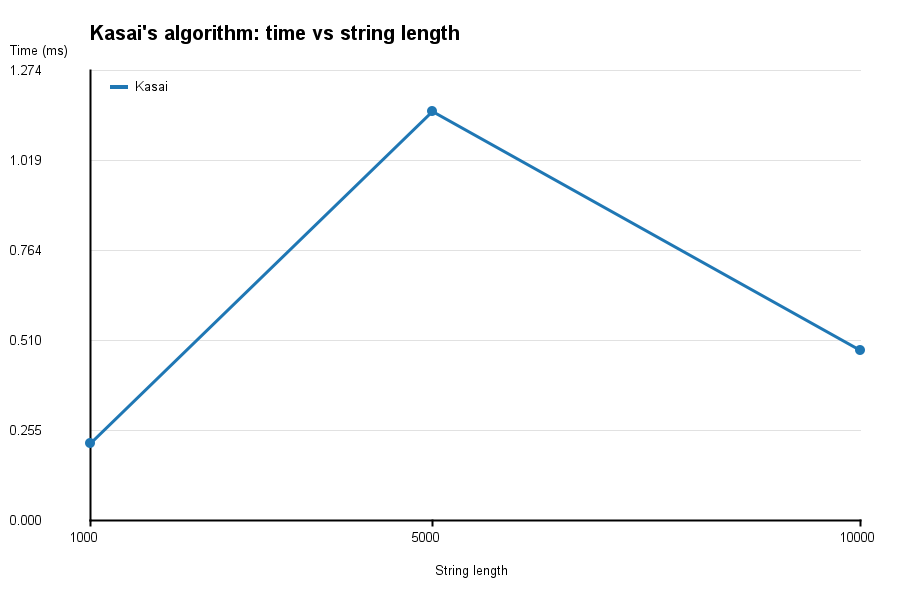
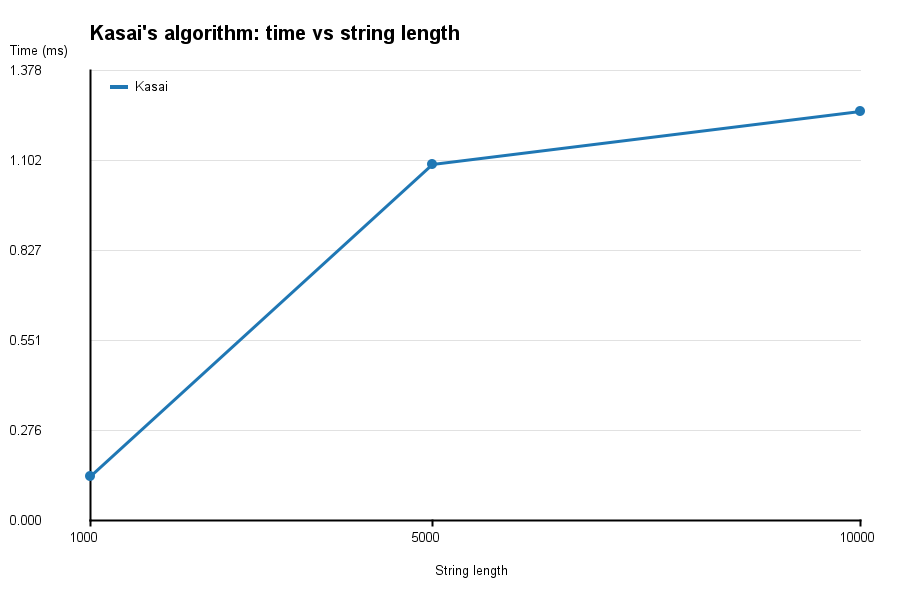
Add experiment results (tables and plots)

diff --git a/results/matching_results.md b/results/matching_results.md
@@ -1,11 +1,11 @@
 | Case | Text length | Matches | Naive (ms) | KMP (ms) | Rabin-Karp (ms) | Naive comparisons | KMP comparisons | RK comparisons | RK spurious hits |
 |---|---|---|---|---|---|---|---|---|---|
-| present | 10000 | 1 | 0.926 | 0.807 | 1.178 | 10396 | 10435 | 50 | 0 |
-| absent | 10000 | 0 | 0.164 | 0.177 | 0.242 | 10396 | 10436 | 0 | 0 |
-| worst-case | 10000 | 0 | 1.018 | 0.205 | 0.375 | 497550 | 20048 | 0 | 0 |
-| present | 50000 | 1 | 0.180 | 0.118 | 1.088 | 52024 | 51987 | 50 | 0 |
-| absent | 50000 | 0 | 0.200 | 0.120 | 1.009 | 52024 | 51988 | 0 | 0 |
-| worst-case | 50000 | 0 | 4.887 | 0.176 | 0.753 | 2497550 | 100048 | 0 | 0 |
-| present | 100000 | 1 | 0.326 | 0.489 | 1.684 | 104022 | 103913 | 50 | 0 |
-| absent | 100000 | 0 | 0.287 | 0.270 | 1.776 | 104022 | 103914 | 0 | 0 |
-| worst-case | 100000 | 0 | 10.380 | 0.601 | 2.457 | 4997550 | 200048 | 0 | 0 |
+| present | 10000 | 1 | 0.857 | 0.807 | 0.692 | 10396 | 10435 | 50 | 0 |
+| absent | 10000 | 0 | 0.184 | 0.260 | 0.292 | 10396 | 10436 | 0 | 0 |
+| worst-case | 10000 | 0 | 1.194 | 0.176 | 0.205 | 497550 | 20048 | 0 | 0 |
+| present | 50000 | 1 | 0.117 | 0.320 | 1.111 | 52024 | 51987 | 50 | 0 |
+| absent | 50000 | 0 | 0.151 | 0.124 | 1.109 | 52024 | 51988 | 0 | 0 |
+| worst-case | 50000 | 0 | 4.575 | 0.192 | 0.761 | 2497550 | 100048 | 0 | 0 |
+| present | 100000 | 1 | 0.231 | 0.222 | 1.510 | 104022 | 103913 | 50 | 0 |
+| absent | 100000 | 0 | 0.289 | 0.231 | 1.774 | 104022 | 103914 | 0 | 0 |
+| worst-case | 100000 | 0 | 12.300 | 0.476 | 1.577 | 4997550 | 200048 | 0 | 0 |

diff --git a/results/dp_results.md b/results/dp_results.md
@@ -1,5 +1,5 @@
 | Length | LCS time (ms) | Edit Distance time (ms) | LCS length | Edit distance | Table cells |
 |---|---|---|---|---|---|
-| 100 | 2.486 | 1.253 | 32 | 90 | 10000 |
-| 500 | 2.816 | 1.786 | 155 | 445 | 250000 |
-| 1000 | 4.067 | 4.956 | 317 | 882 | 1000000 |
+| 100 | 1.571 | 1.492 | 32 | 90 | 10000 |
+| 500 | 2.252 | 1.797 | 155 | 445 | 250000 |
+| 1000 | 3.534 | 4.912 | 317 | 882 | 1000000 |

diff --git a/results/kasai_results.md b/results/kasai_results.md
@@ -1,5 +1,5 @@
 | String length | Kasai time (ms) | Character comparisons | Max LCP value |
 |---|---|---|---|
-| 1000 | 0.219 | 1972 | 4 |
-| 5000 | 1.158 | 9970 | 4 |
-| 10000 | 0.482 | 19970 | 5 |
+| 1000 | 0.138 | 1972 | 4 |
+| 5000 | 1.092 | 9970 | 4 |
+| 10000 | 1.252 | 19970 | 5 |
